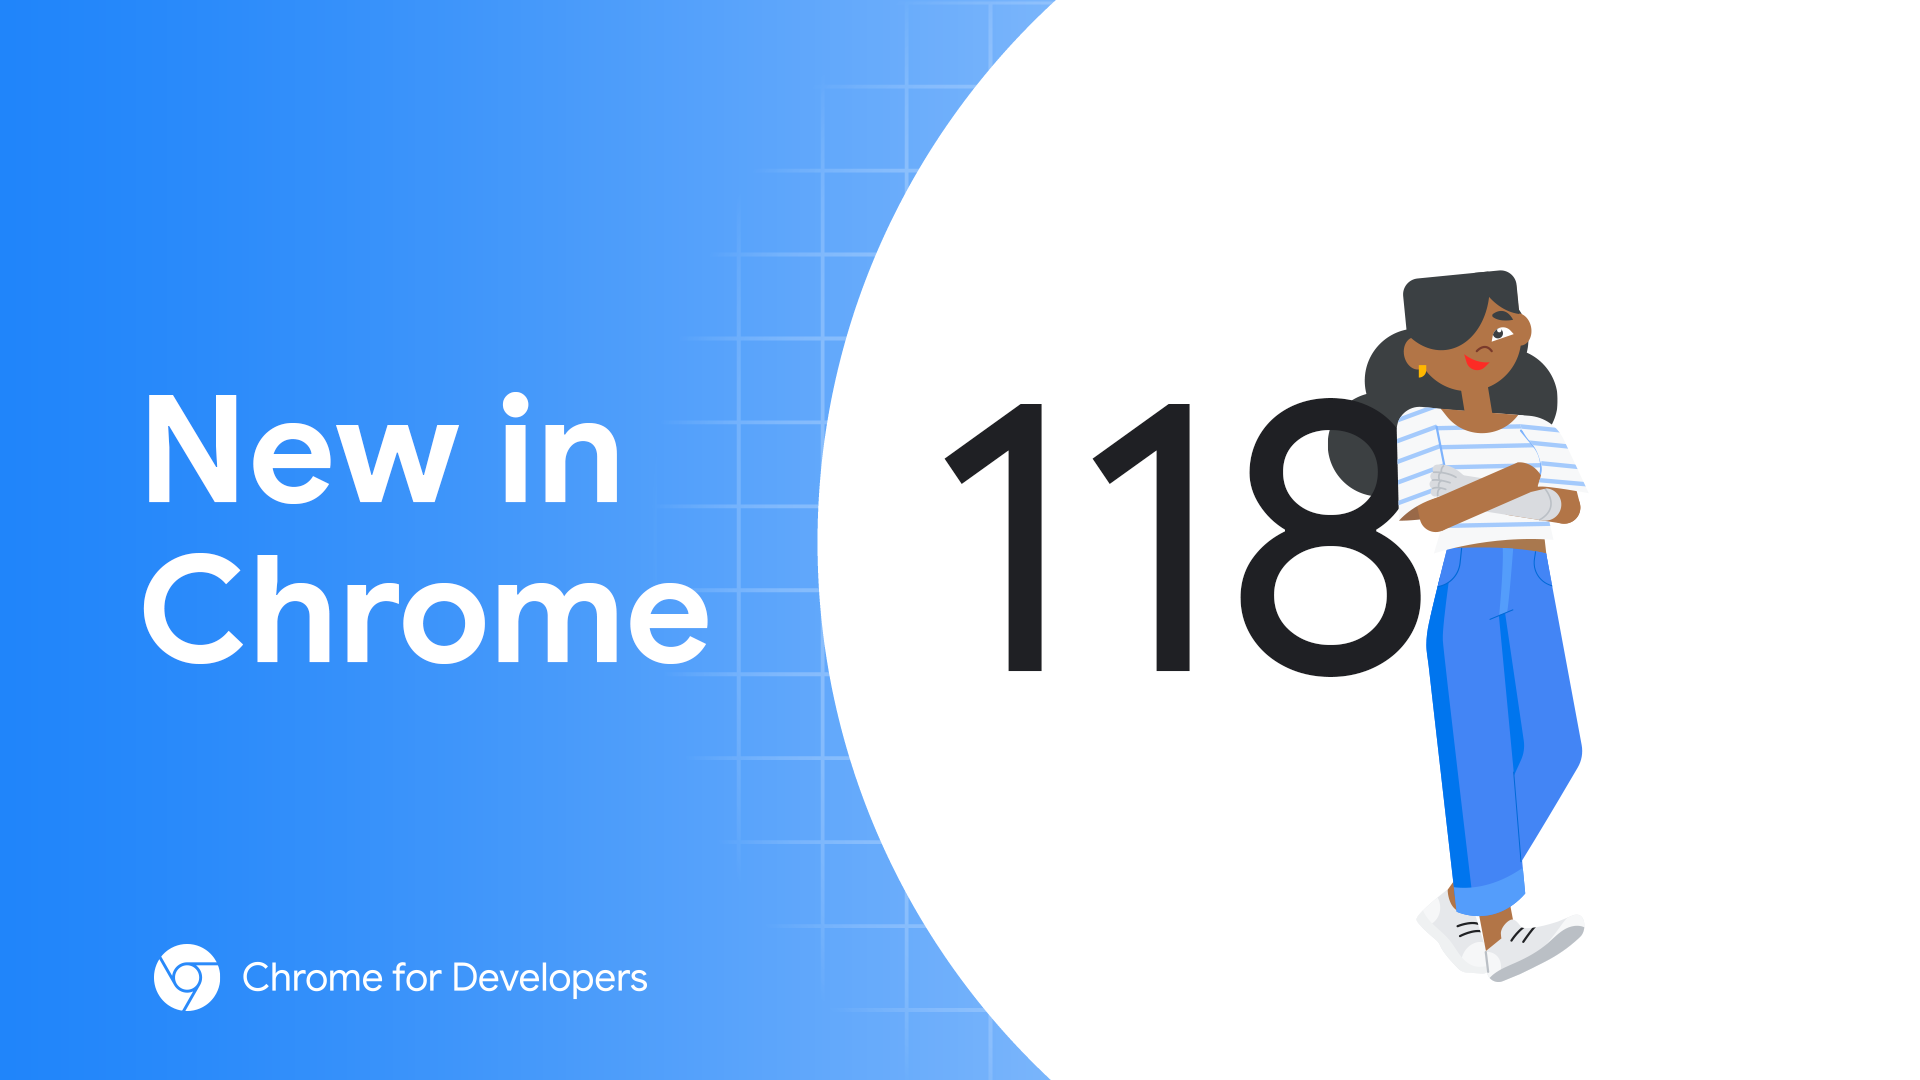
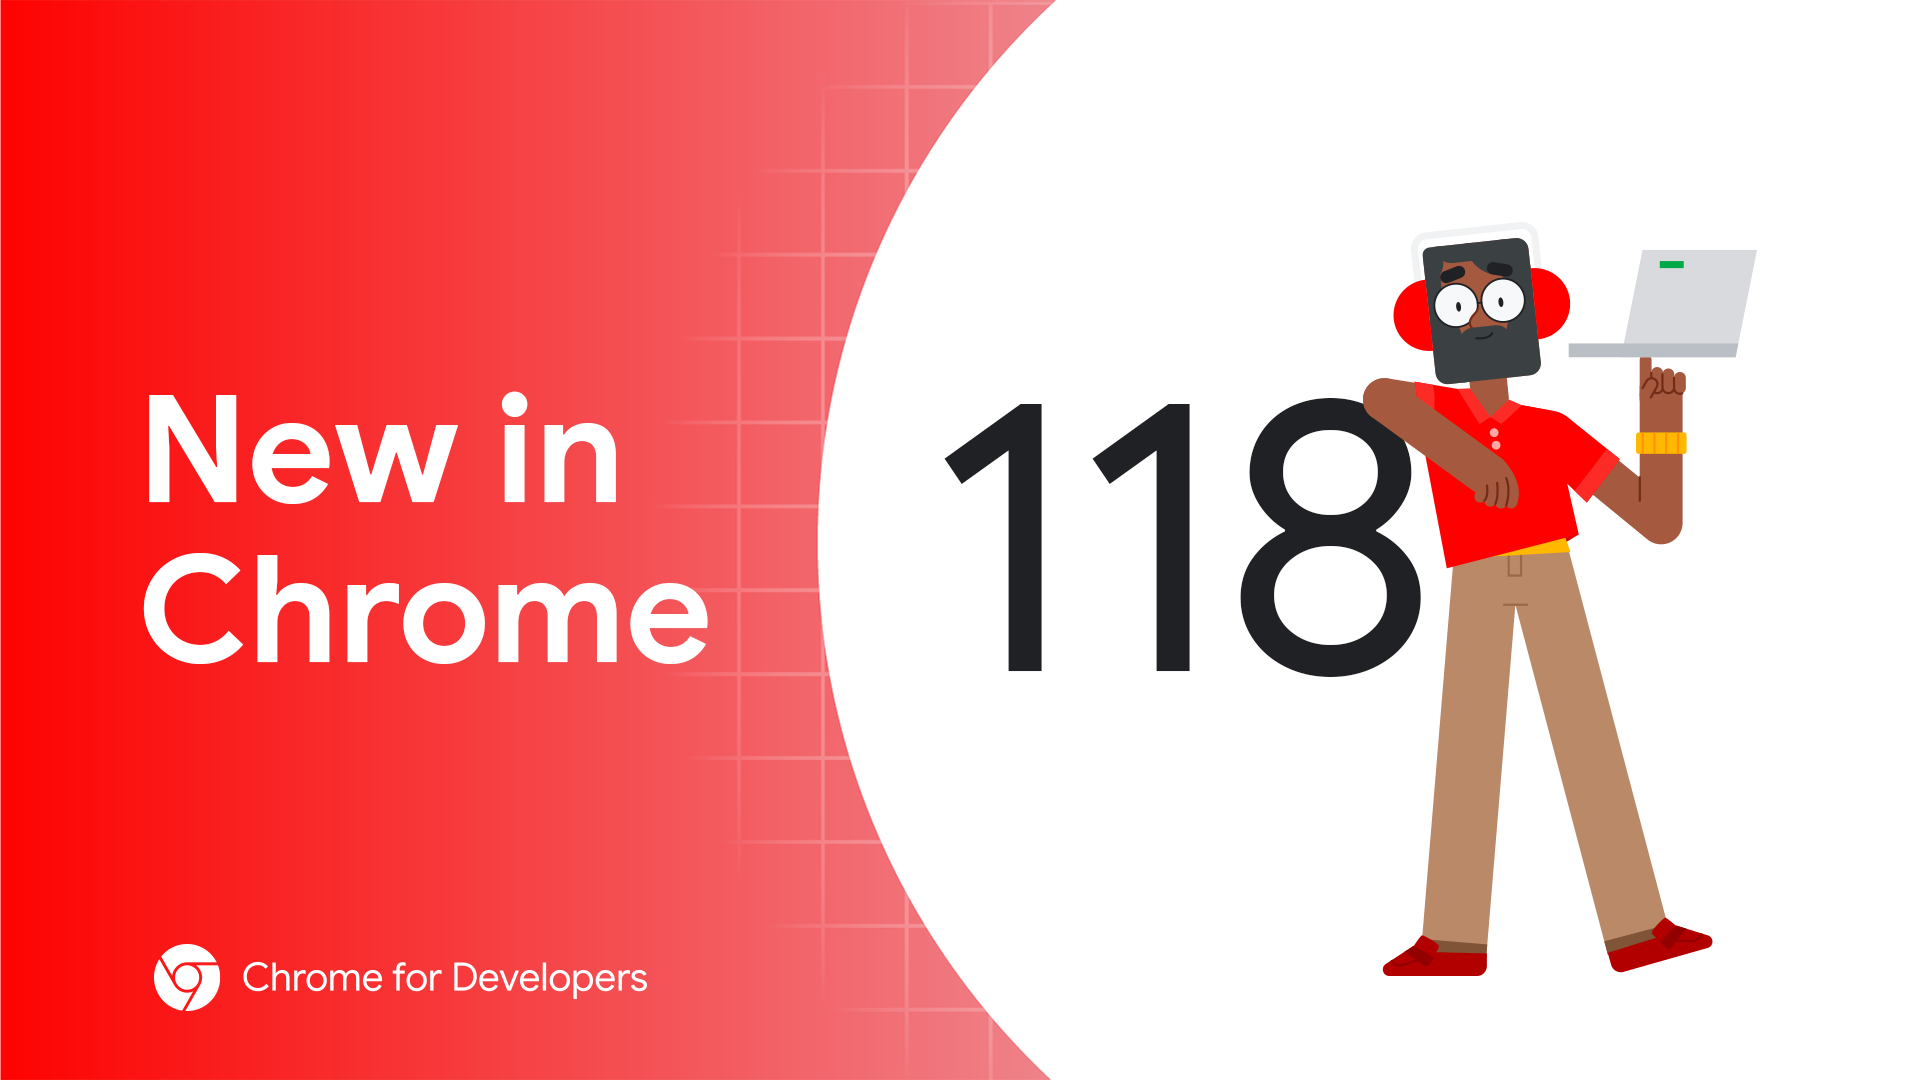
putting feature back on homepage

diff --git a/site/en/blog/new-in-chrome-117/index.md b/site/en/blog/new-in-chrome-117/index.md
@@ -6,7 +6,7 @@ layout: 'layouts/blog-post.njk'
 date: 2023-09-12
 authors:
   - ajara
-hero: 'image/SeARmcA1EicLXagFnVOe0ou9cqK2/msCTpRahj6qrF4R4m5y3.png'
+hero: 'image/kheDArv5csY6rvQUJDbWRscckLr1/EydB5vnOb9zGdw06UzZK.png'
 alt: >
   New in Chrome hero logo
 tags:

diff --git a/site/en/blog/new-in-chrome-118/index.md b/site/en/blog/new-in-chrome-118/index.md
@@ -6,7 +6,7 @@ layout: 'layouts/blog-post.njk'
 date: 2023-10-10
 authors:
   - ajara
-hero: 'image/kheDArv5csY6rvQUJDbWRscckLr1/Fykb6HbizvuTjzhXB8IW.png'
+hero: 'image/kheDArv5csY6rvQUJDbWRscckLr1/rcB2kRXs70qfYA0i4iTx.png'
 alt: >
   New in Chrome hero logo
 tags:
